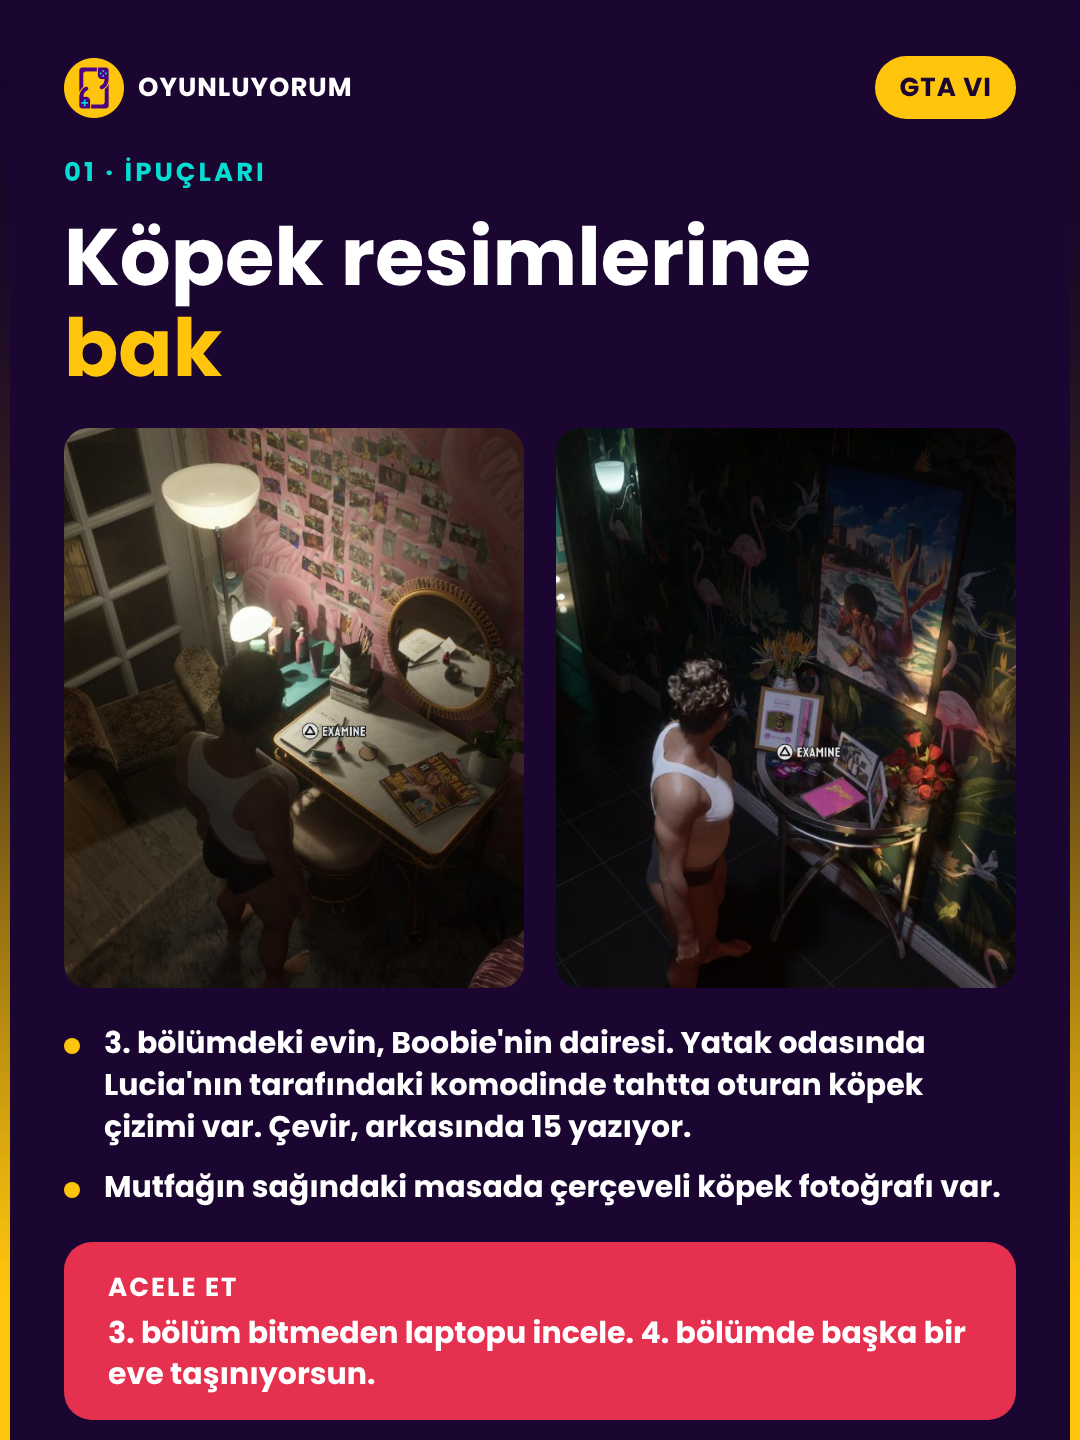
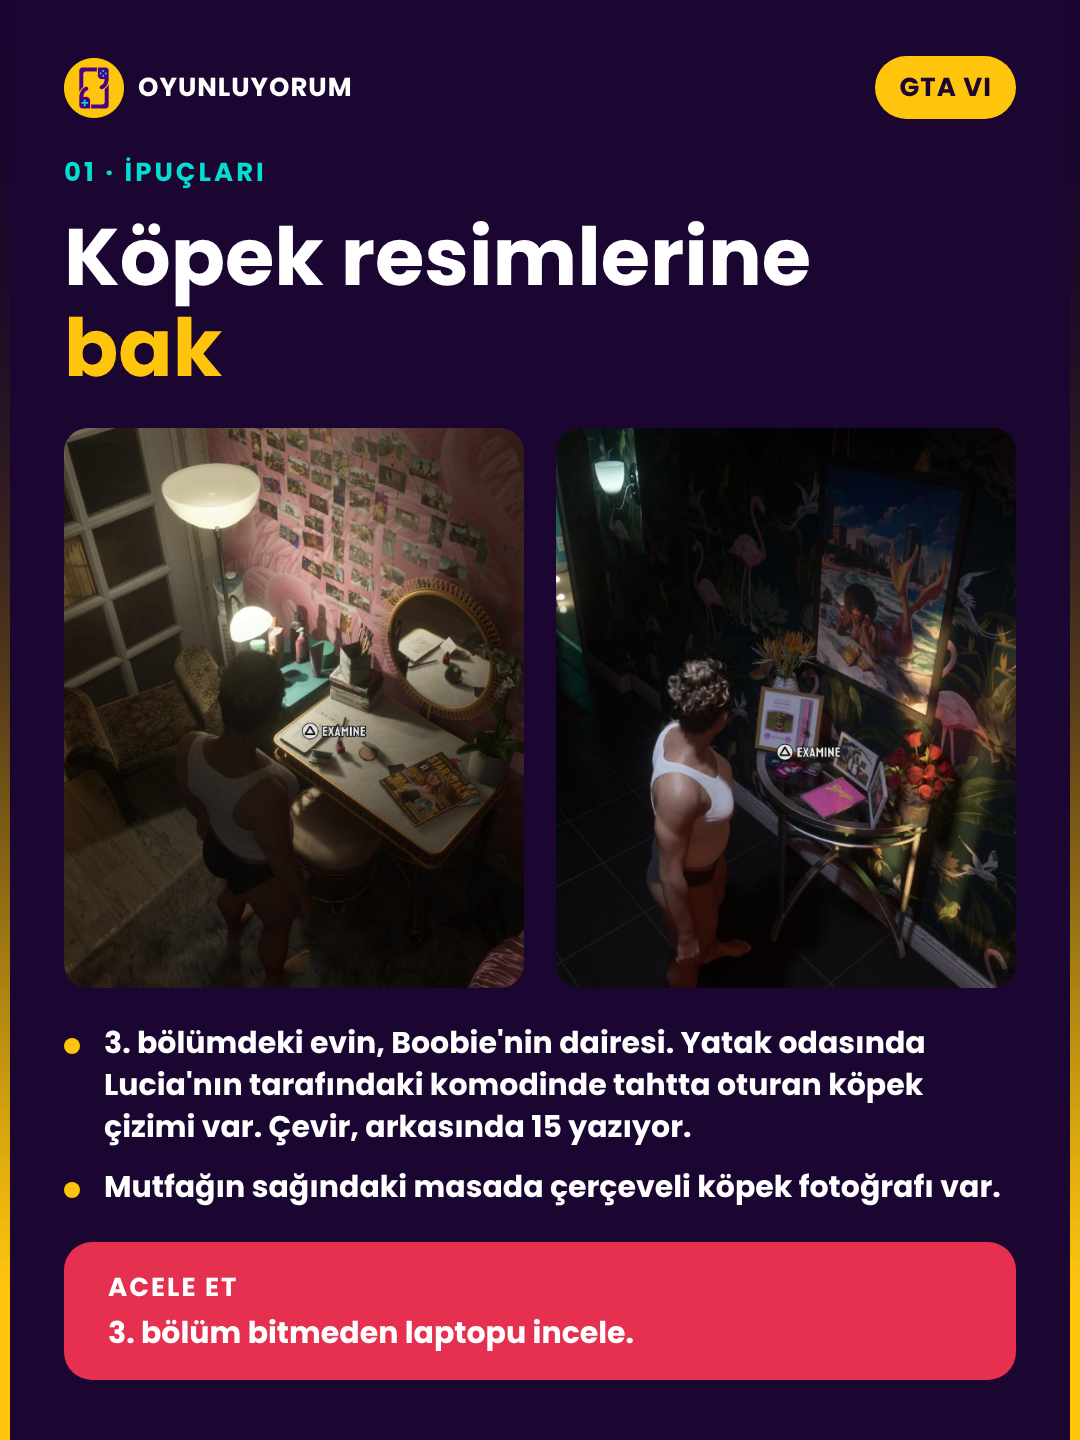
Growler: spoiler kaldırıldı
Claude-Session: https://claude.ai/code/session_01Cfy9VgEXWVL5ta7MT2PpLs

Changed region(s): [[0.0611, 0.9062, 0.9472, 1.0]]

diff --git a/posts/2026-11-21-gta6-growler/aciklama.md b/posts/2026-11-21-gta6-growler/aciklama.md
@@ -11,7 +11,7 @@ GTA 6'da bedava spor araba ve garaj kapmak ister misin? 🚗💗 3. bölümde ta
 
 Laptop şifresi ve garajın yeri karuselde 👇 Garaj kodunu Boobie'nin mesajlarında bul, bulamazsan yorumlara yaz. Normalde 29.450 dolarlık kayıt ücretini de ödemiyorsun.
 
-⚠ 3. bölüm bitmeden yap, 4. bölümde başka bir eve taşınıyorsun.
+⚠ 3. bölüm bitmeden laptopu incele.
 
 Kaydet, 3. bölümde lazım olacak. GTA 6 oynayan arkadaşına da gönder 📩
 
